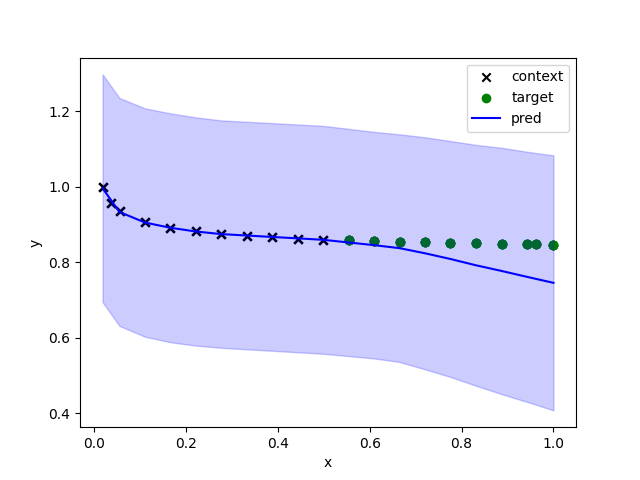
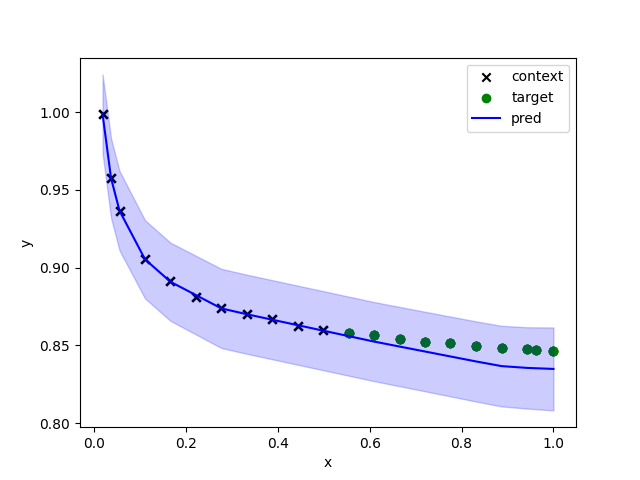
Edit tables and update blr images

diff --git a/rebuttal/table_with_dkgp_and_blr.md b/rebuttal/table_with_dkgp_and_blr.md
@@ -1,24 +1,21 @@
 | Method | Feature Dim | IC RMSLE (↓) | IC LL (↑) | NLP+Nano RMSLE (↓) | NLP+Nano LL (↑) | ColPret RMSLE (↓) | ColPret LL (↑) | DD RMSLE (↓) | DD LL (↑) |
 |:--------:|:-----:|:-----------:|:--------:|:------------------:|:---------------:|:----------------:|:-------------:|:-----------:|:--------:|
-| DKGP | 5 | <u>0.197±0.028</u> | -1.858±2.258 | <u>0.067±0.014 | 0.620±0.525 | 0.101±0.000 | 0.096±0.661 | 0.143±0.033 | -3.288±2.536 |
-| DKGP | 10 | 0.207±0.016 | -0.716±1.579 | 0.069±0.008 | 0.285±0.473 | <u>0.093±0.002 | 0.965±0.210 | 0.160±0.019 | -5.762±2.866 |
-| DKGP | 20 | 0.236±0.005 | -2.347±1.788 | 0.068±0.007 | <u>0.763±0.116 | 0.108±0.001 | <u>1.201±0.217 | <u>0.128±0.006 | <u>-0.989±1.103 |
-| BLR (with NN) | 5 | NaN | <u>-0.370±0.343 | 0.101±0.020 | -0.334±0.122 | NaN | -210.559±14.885 | 0.222±0.012 | -929.137±714.104 |
-| BLR (with NN) | 10 | NaN | -0.591±0.059 | 0.093±0.011 | -10.029±13.863 | NaN | -140.388±195.964 | 0.172±0.021 | -1133.994±441.933 |
-| BLR (with NN) | 20 | NaN | -0.849±0.053 | 0.096±0.009 | -6.968±3.799 | NaN | -574.679±380.579 | 0.237±0.024 | -12477.880±6602.933 |
-| BLR (with RBF) | 5 | 2.187±0.000 | -827.995±0.000 | 0.277±0.000 | -992957.363±0.000 | 0.670±0.000 | -90782.710±0.000 | NaN | -779.075±0.000 |
-| BLR (with RBF) | 10 | 1.647±0.000 | -31721.613±0.000 | 0.231±0.000 | -34836337.451±0.000 | 0.545±0.000 | -5154280.255±0.000 | 0.547±0.000 | -5266.765±0.000 |
-| BLR (with RBF) | 20 | 1.245±0.000 | -380318.251±0.000 | 0.182±0.000 | -62385945.054±0.000 | 0.406±0.000 | -2255650.801±0.000 | 0.302±0.000 | -29230.265±0.000 |
-| BLR (with Polynomial) | 5 | NaN | -7.454±0.000 | NaN | -1966259.261±0.000 | NaN | -49476.343±0.000 | NaN | -12571279.604±0.000 |
-| BLR (with Polynomial) | 10 | NaN | -11717.426±0.000 | NaN | -5309500741.941±0.000 | NaN | -156585562976.406±0.000 | NaN | -45933988834.899±0.000 |
-| BLR (with Polynomial) | 20 | NaN | -196476931011.796±0.000 | NaN | -10006622380074474.000±0.000 | NaN | -1273375586214599673564364800.000±0.000 | NaN | -3393701671354912345161728.000±0.000 |
-| BLR (with Fourier) | 5 | 1.369±0.000 | -1349.773±0.000 | 0.280±0.000 | -4858582.275±0.000 | 0.527±0.000 | -404888.452±0.000 | NaN | -3230.364±0.000 |
-| BLR (with Fourier) | 10 | NaN | -7278.021±0.000 | 0.334±0.000 | -92823689.768±0.000 | NaN | -4171276.480±0.000 | NaN | -14625.915±0.000 |
-| BLR (with Fourier) | 20 | NaN | -240177.245±0.000 | 0.274±0.000 | -2951426084.563±0.000 | NaN | -37422794.564±0.000 | 0.352±0.000 | -200304.044±0.000 |
-| BLR (with Sigmoid) | 5 | NaN | -1.139±0.000 | NaN | -22.698±0.000 | NaN | -6553.455±0.000 | NaN | -173138.761±0.000 |
-| BLR (with Sigmoid) | 10 | NaN | -0.527±0.000 | NaN | -300.992±0.000 | NaN | -25837.964±0.000 | NaN | -466674.946±0.000 |
-| BLR (with Sigmoid) | 20 | NaN | -2.649±0.000 | NaN | -4788.734±0.000 | NaN | -102454.367±0.000 | NaN | -1169422.029±0.000 |
-| BLR (with Spline) | 5 | 0.557±0.000 | -2770.917±0.000 | 0.163±0.000 | -968057.702±0.000 | NaN | -319240.365±0.000 | 0.233±0.000 | -54568.672±0.000 |
-| BLR (with Spline) | 10 | 0.712±0.000 | -144956.907±0.000 | 0.175±0.000 | -1160971954.595±0.000 | 0.278±0.000 | -102023837.206±0.000 | 0.307±0.000 | -70310.745±0.000 |
-| BLR (with Spline) | 20 | 0.689±0.000 | -72913.803±0.000 | 0.171±0.000 | -230555448.520±0.000 | 0.247±0.000 | -3161963.441±0.000 | 0.246±0.000 | -324469.462±0.000 |
+| BLR (with NN) | 5 | NaN | <u>-0.278±0.027 | 0.084±0.034 | <u>-4.694±0.623 | NaN | -1.806±0.991 | 0.185±0.013 | -26.931±17.927 |
+| BLR (with NN) | 10 | NaN | -0.539±0.051 | 0.089±0.011 | -4.715±1.316 | NaN | <u>-1.694±0.382 | <u>0.180±0.010 | -22.306±22.023 |
+| BLR (with NN) | 20 | NaN | -0.766±0.008 | <u>0.077±0.006 | -6.816±1.701 | NaN | -1.760±0.251 | 0.244±0.000 | <u>-5.072±2.566 |
+| BLR (with RBF) | 5 | 2.118±0.000 | -34.822±0.000 | 0.253±0.000 | -38.540±0.000 | 0.633±0.000 | -34.817±0.000 | NaN | -11.678±0.000 |
+| BLR (with RBF) | 10 | 1.629±0.000 | -1007.509±0.000 | 0.223±0.000 | -693.027±0.000 | 0.559±0.000 | -433.474±0.000 | 0.493±0.000 | -62.153±0.000 |
+| BLR (with RBF) | 20 | 1.166±0.000 | -3210.410±0.000 | 0.179±0.000 | -1720.975±0.000 | 0.411±0.000 | -628.258±0.000 | 0.292±0.000 | -308.867±0.000 |
+| BLR (with Polynomial) | 5 | NaN | -6.707±0.000 | NaN | -57.646±0.000 | NaN | -174.431±0.000 | NaN | -408.054±0.000 |
+| BLR (with Polynomial) | 10 | NaN | -823.496±0.000 | NaN | -111017.057±0.000 | NaN | -40367008644.372±0.000 | NaN | -256432371.520±0.000 |
+| BLR (with Polynomial) | 20 | NaN | -5367423256.179±0.000 | NaN | -155017658547.895±0.000 | NaN | -1177967584442644230024724480.000±0.000 | NaN | -1934066220972683034624.000±262144.000 |
+| BLR (with Fourier) | 5 | 1.362±0.000 | -56.519±0.000 | 0.283±0.000 | -160.407±0.000 | 0.529±0.000 | -52.459±0.000 | NaN | -34.992±0.000 |
+| BLR (with Fourier) | 10 | NaN | -141.715±0.000 | 0.340±0.000 | -1294.401±0.000 | NaN | -180.528±0.000 | 0.520±0.000 | -111.103±0.000 |
+| BLR (with Fourier) | 20 | NaN | -1654.031±0.000 | 0.283±0.000 | -20475.601±0.000 | NaN | -1746.198±0.000 | 0.345±0.000 | -669.706±0.000 |
+| BLR (with Sigmoid) | 5 | NaN | -3.372±0.000 | 0.187±0.000 | -70.810±0.000 | NaN | -4.541±0.000 | NaN | -6.508±0.000 |
+| BLR (with Sigmoid) | 10 | NaN | -2.525±0.000 | 0.165±0.000 | -201.462±0.000 | NaN | -5.051±0.000 | NaN | -10.565±0.000 |
+| BLR (with Sigmoid) | 20 | NaN | -2.322±0.000 | 0.214±0.000 | -667.275±0.000 | NaN | -8.155±0.000 | NaN | -17.679±0.000 |
+| BLR (with Spline) | 5 | <u>0.551±0.000 | -48.563±0.000 | 0.159±0.000 | -53.091±0.000 | <u>0.241±0.000 | -64.485±0.000 | 0.238±0.000 | -69.894±0.000 |
+| BLR (with Spline) | 10 | 0.716±0.000 | -3446.053±0.000 | 0.177±0.000 | -3286.889±0.000 | 0.275±0.000 | -10256.465±0.000 | 0.296±0.000 | -899.838±0.000 |
+| BLR (with Spline) | 20 | 0.694±0.000 | -2488.221±0.000 | 0.172±0.000 | -4102.473±0.000 | 0.242±0.000 | -5032.602±0.000 | 0.239±0.000 | -2901.537±0.000 |
 | NSL-PFN (ours) | NaN | **0.028±0.001** | **3.330±0.0136** | **0.019±0.002** | **2.773±0.0605** | **0.027±0.000** | **2.794±0.025** | **0.034±0.001** | **2.565±0.023** |

diff --git a/rebuttal/main_table_with_calibration_error.md b/rebuttal/main_table_with_calibration_error.md
@@ -1,5 +1,3 @@
-Mean over 3 runs for the baselines and our method. * indicates that a few trials failed due to overflow error, which were excluded from the calculation. The best results are in bold, and the second-best results are underlined.
-
 | Method | Bayes. | IC RMSLE (↓) | IC LL (↑) | IC MSCE (↓) | NLP+Nano RMSLE (↓) | NLP+Nano LL (↑) | NLP+Nano MSCE (↓) | ColPret RMSLE (↓) | ColPret LL (↑) | ColPret MSCE (↓) | DD RMSLE (↓) | DD LL (↑) | DD MSCE (↓) |
 |:------:|:------:|:------------:|:---------:|:----------:|:-------------------:|:----------------:|:----------------:|:------------------:|:---------------:|:---------------:|:-------------:|:---------:|:----------:|
 | $\mathcal{M}_1$ | ❌ | 0.1046 | - | - | 0.0593 | - | - | 0.0732 | - | - | 0.1140 | - | - |
